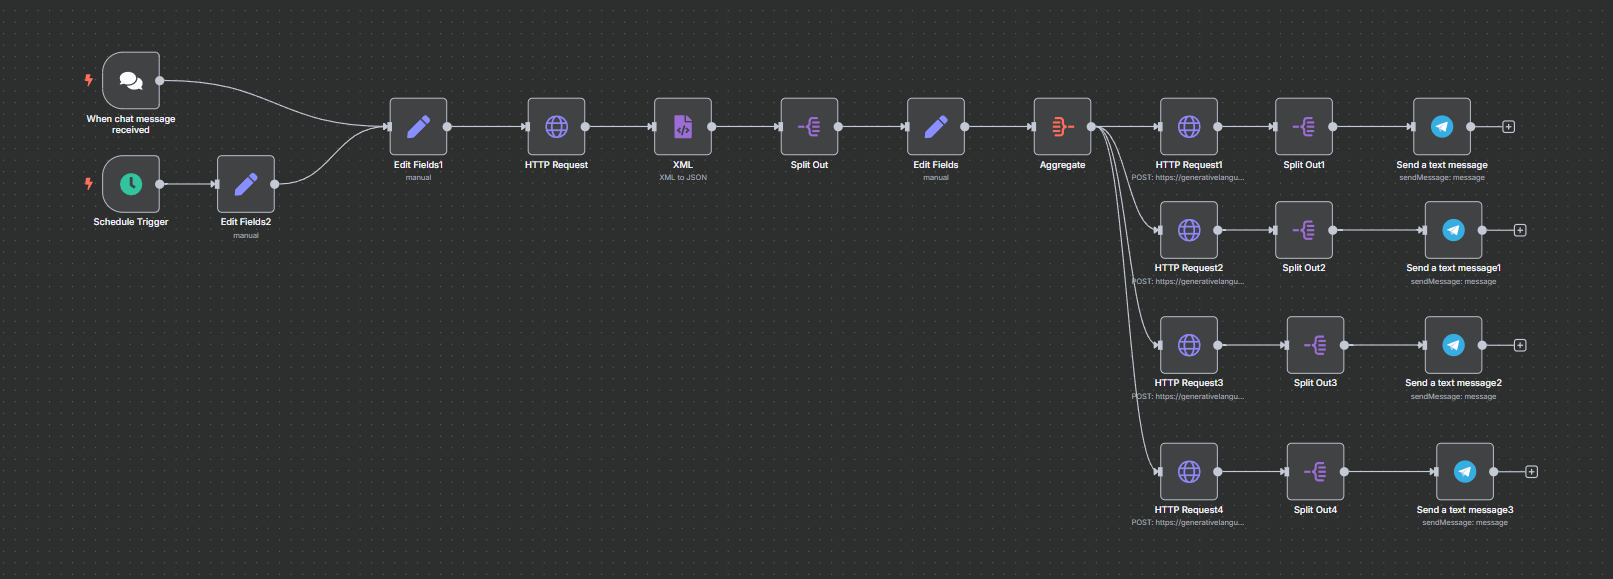
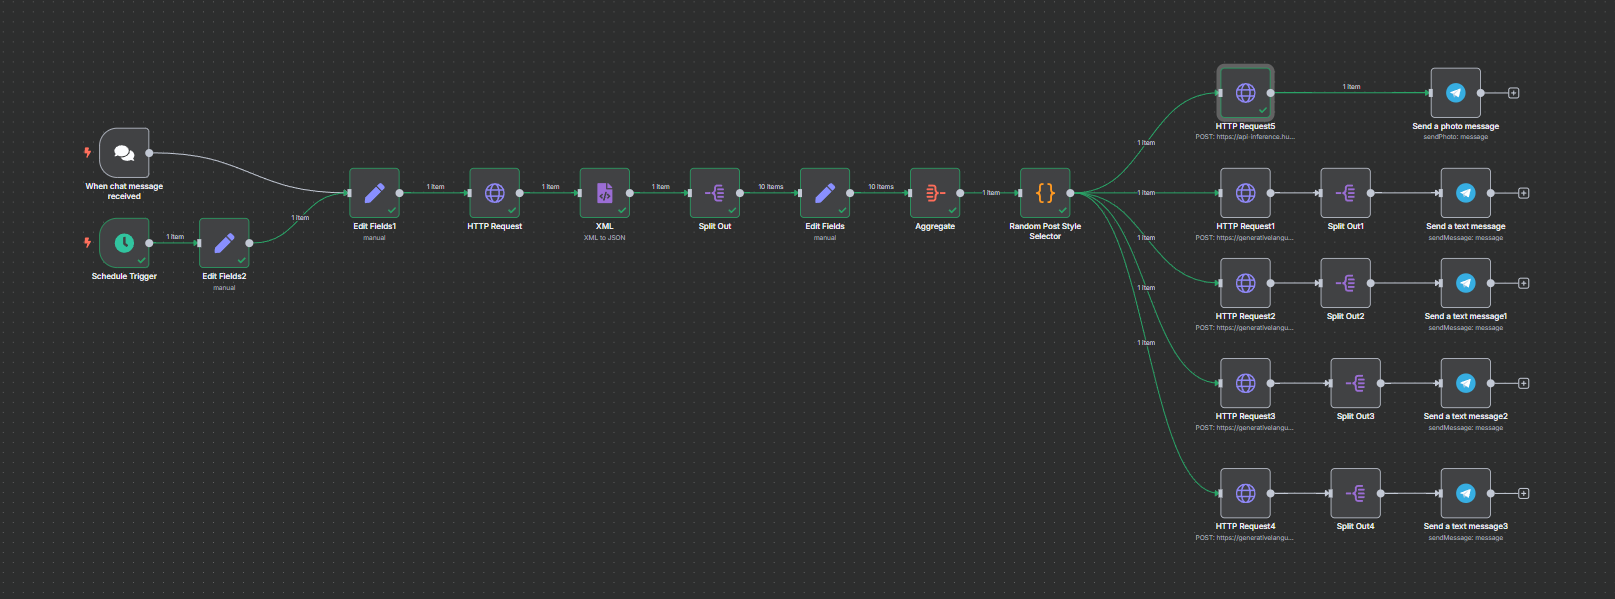
changed readme

Changed region(s): [[0.062, 0.0933, 0.9609, 0.9326], [0.062, 0.1244, 0.124, 0.1554]]

diff --git a/README.md b/README.md
@@ -2,77 +2,76 @@
 
 ![Workflow Preview](./ContentGen.png)
 
+
 ## Overview
 
-**DevOps LinkedIn Content Generator** is an automated workflow built with **n8n** that helps you create engaging, relevant, and high-quality LinkedIn posts in seconds.
+**DevOps LinkedIn Content Generator** is an automated workflow built with **n8n** that helps you create engaging, relevant, and high-quality LinkedIn posts in seconds. Now enhanced with **AI-powered image generation** and advanced diversification techniques, it ensures your content is not only impactful but also uniquely fresh every time.
 
 Although it’s designed with DevOps professionals in mind, **you can easily adapt it to generate content for *any* topic** — whether it’s cloud, AI, project management, or personal branding.
 
 ## How It Works
 
-1. **Trigger**
+1.  **Trigger**
+      * The workflow can be started in two ways:
+          * **Chat Trigger**: Send a message to the connected chat bot to specify a custom topic.
+          * **Schedule Trigger**: It can run automatically at a set time each day using the schedule node.
+2.  **Keyword Extraction**
+      * It sends the topic to Google Autocomplete to fetch real-time keyword suggestions.
+3.  **Dynamic Content & Style Selection**
+      * A custom "Code" node acts as a **randomizer**, picking a unique writing style or specific focus for the day's posts. This ensures diverse tones and structures, avoiding repetition.
+4.  **Content Generation**
+      * It passes the keywords and the selected dynamic style to Google Gemini to generate **four distinct and unique LinkedIn post drafts**, each crafted with a different angle or persona.
+5.  **AI Image Generation**
+      * Using an external AI image generation service, the workflow creates a custom image that visually complements the generated post content and its unique daily style.
+6.  **Delivery**
+      * The posts and their accompanying images are automatically sent to your Telegram chat for quick review and sharing.
 
-   * The workflow can be started in two ways:
-
-     * **Chat Trigger**: Send a message to the connected chat bot to specify a custom topic.
-     * **Schedule Trigger**: It can run automatically at a set time each day using the schedule node.
-2. **Keyword Extraction**
-
-   * It sends the topic to Google Autocomplete to fetch real-time keyword suggestions.
-3. **Content Generation**
-
-   * It passes the keywords to Google Gemini to generate multiple unique LinkedIn post drafts.
-4. **Delivery**
-
-   * The posts are split and automatically sent to your Telegram chat for quick review and sharing.
-
----
+-----
 
 ## Changing the Topic
 
 ✅ **Use the Chat Box**
 
-* If you want a topic other than **DevOps**, just send a custom message to the chatbot (the **When chat message received** trigger in the workflow).
-* Whatever you type will replace the default topic and fetch keywords based on your input.
+  * If you want a topic other than **DevOps**, just send a custom message to the chatbot (the **When chat message received** trigger in the workflow).
+  * Whatever you type will replace the default topic and fetch keywords based on your input.
 
 ✅ **Change the Default Topic**
 
-* If you want to change the default topic that runs on schedule:
+  * If you want to change the default topic that runs on schedule:
+    1.  Open the workflow in **n8n**.
+    2.  Find the node named **Edit Fields2** — here, the `topic` parameter is set to `"devops"` by default.
+    3.  Change `"devops"` to whatever topic you like, e.g., `"AI trends"`, `"Cloud Security"`, `"Productivity Hacks"` — anything\!
 
-  1. Open the workflow in **n8n**.
-  2. Find the node named **Edit Fields2** — here, the `topic` parameter is set to `"devops"` by default.
-  3. Change `"devops"` to whatever topic you like, e.g., `"AI trends"`, `"Cloud Security"`, `"Productivity Hacks"` — anything!
-
----
+-----
 
 ## Customizing the Prompts
 
-✅ If you want to modify the style, length, or tone of the generated posts:
+✅ If you want to modify the style, length, or tone of the generated posts or images:
 
-* Look for the nodes named **HTTP Request1**, **HTTP Request2**, **HTTP Request3**, and **HTTP Request4**.
-* Each of these nodes sends a different prompt template to Gemini.
-* Open the node, and edit the **jsonBody** to change how the content is generated.
-* You can adjust word count, tone, structure, hashtags, or any other instructions.
+  * **Diverse Post Prompts**: Look for the nodes named **HTTP Request1**, **HTTP Request2**, **HTTP Request3**, and **HTTP Request4**. Each of these nodes sends a different base prompt template to Gemini, which you can edit in the **jsonBody** to adjust word count, tone, structure, or other specific instructions.
+  * **Random Style Selector**: For even greater variety, adjust the `promptStyles` array within the **Random Post Style Selector** (Code node). Add more descriptive phrases or instructions to further diversify the daily output.
+  * **Image Generation Prompt**: Find the **HTTP Request** node responsible for image generation (e.g., `HTTP Request5`). You can modify its `jsonBody` to alter the style, aspect ratio, or specific elements of the generated images, often by injecting the `randomPromptStyle` for alignment with the post.
 
----
+-----
 
 ## Requirements
 
-* [n8n](https://n8n.io/) running locally or on your server
-* A valid Google Generative Language API key (Gemini)
-* A Telegram bot and its API token connected to your Telegram account
-* Basic understanding of editing nodes in n8n
+  * [n8n](https://n8n.io/) running locally or on your server
+  * A valid Google Generative Language API key (for Gemini text generation)
+  * Access to a **free AI image generation API** (e.g., Hugging Face Inference API, or free tiers of platforms like Leonardo.AI) and its API key.
+  * A Telegram bot and its API token connected to your Telegram account
+  * Basic understanding of editing nodes in n8n
 
----
+-----
 
 ## Getting Started
 
-1. Clone this repository.
-2. Import `DevOps LinkedIn Content Generator.json` into your **n8n** instance.
-3. Add your API keys and Telegram credentials.
-4. Edit the topic and prompts as needed.
-5. Start the workflow and receive professional LinkedIn posts daily — for DevOps or any other topic you want!
+1.  Clone this repository.
+2.  Import `DevOps LinkedIn Content Generator.json` into your **n8n** instance.
+3.  Add your API keys and Telegram credentials.
+4.  Edit the topic and prompts as needed, including the new "Random Post Style Selector" code.
+5.  Start the workflow and receive professional, diverse, and visually engaging LinkedIn posts daily — for DevOps or any other topic you want\!
 
----
+-----
 
-**Happy content generating! 🚀**
+**Happy content generating\! 🚀**
